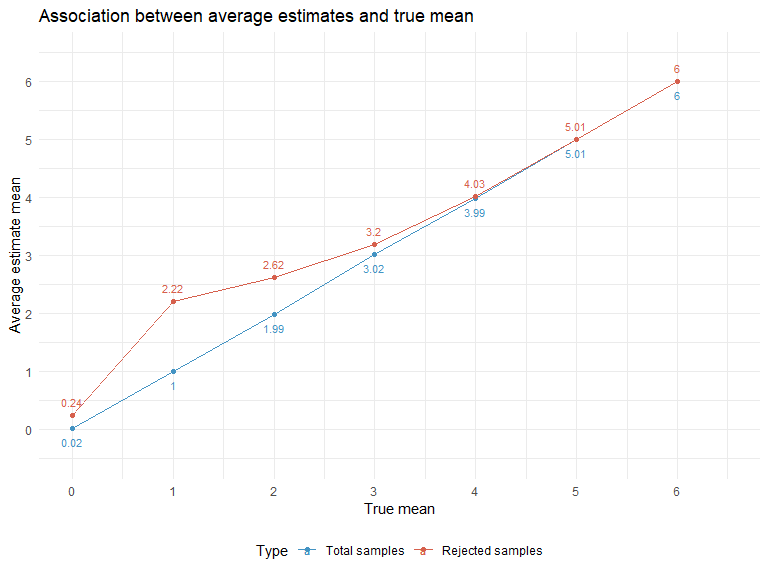
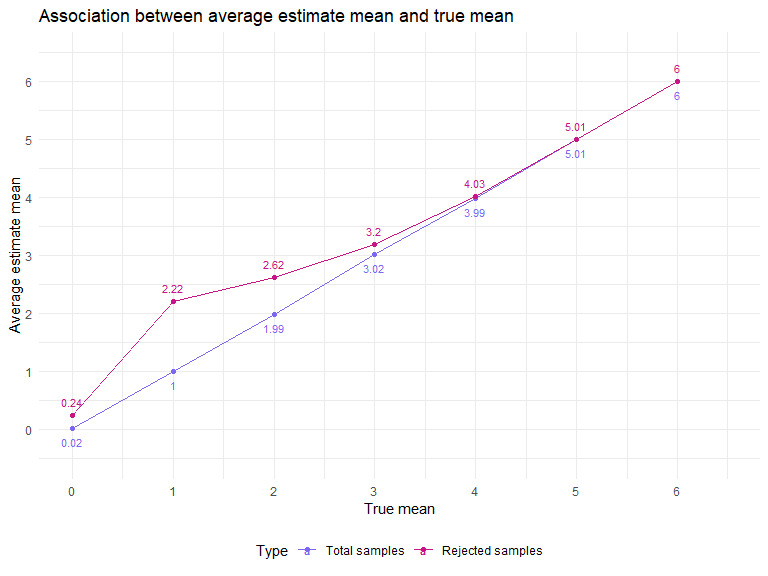
Made a second plot (or overlay on the first) the average estimate of μ^ only in samples for which the null was rejected on the y axis and the true value of μ on the x axis

diff --git a/p8105_hw5_zs2539.md b/p8105_hw5_zs2539.md
@@ -260,11 +260,11 @@ sim_result  %>%
   filter(p_value < 0.05) %>% 
   summarize(rej_num = n(), rej_prop = rej_num/5000) %>% 
   ggplot(aes(x = mu, y = rej_prop)) + 
-  geom_point(alpha = 0.8) +
-  geom_line(alpha = 0.8) +
+  geom_point(alpha = .8) +
+  geom_line(alpha = .8) +
   geom_text(aes(label = round(rej_prop, 3)), vjust = -1, size = 3) + 
-  scale_x_continuous(limits = c(0,6), breaks = seq(0,6,1)) +
-  scale_y_continuous(limits = c(0,1), breaks = seq(0,1,0.2)) +
+  scale_x_continuous(limits = c(0,6), breaks = seq(0, 6, 1)) +
+  scale_y_continuous(limits = c(0,1), breaks = seq(0, 1, .2)) +
   labs(
     title = "Association between effect size and power of the t-test",
     x = "True mean",
@@ -293,7 +293,7 @@ sim_result %>%
   scale_x_continuous(limits = c(0,6.5), breaks = seq(0,6,1)) +
   scale_y_continuous(limits = c(-0.1,6.5), breaks = seq(0,6,1)) +
   labs(
-    title = "Association between average estimates and true mean",
+    title = "Association between average estimate mean and true mean",
     x = "True mean",
     y = "Average estimate mean"
   ) 
@@ -307,6 +307,7 @@ sim_rej = sim_result %>%
   filter(p_value < 0.05) %>% 
   group_by(mu) %>% 
   summarise(avg_estimate = mean(estimate)) 
+
 sim_result %>% 
   group_by(mu) %>% 
   summarise(avg_estimate = mean(estimate)) %>% 
@@ -321,9 +322,9 @@ sim_result %>%
   scale_y_continuous(limits = c(-0.5,6.5), breaks = seq(0,6,1)) +
   labs(x = "True mean",
        y = "Average estimate mean",
-       title = "Association between average estimates and true mean",
+       title = "Association between average estimate mean and true mean",
        color = "Type") +
-  scale_color_manual(values = c("Total samples" = "#4393C3", "Rejected samples" = "#D6604D"))
+  scale_color_manual(values = c("Total samples" = "#7B68EE", "Rejected samples" = "#C71585"))
 ```
 
 <img src="p8105_hw5_zs2539_files/figure-gfm/unnamed-chunk-12-2.png" width="90%" />
